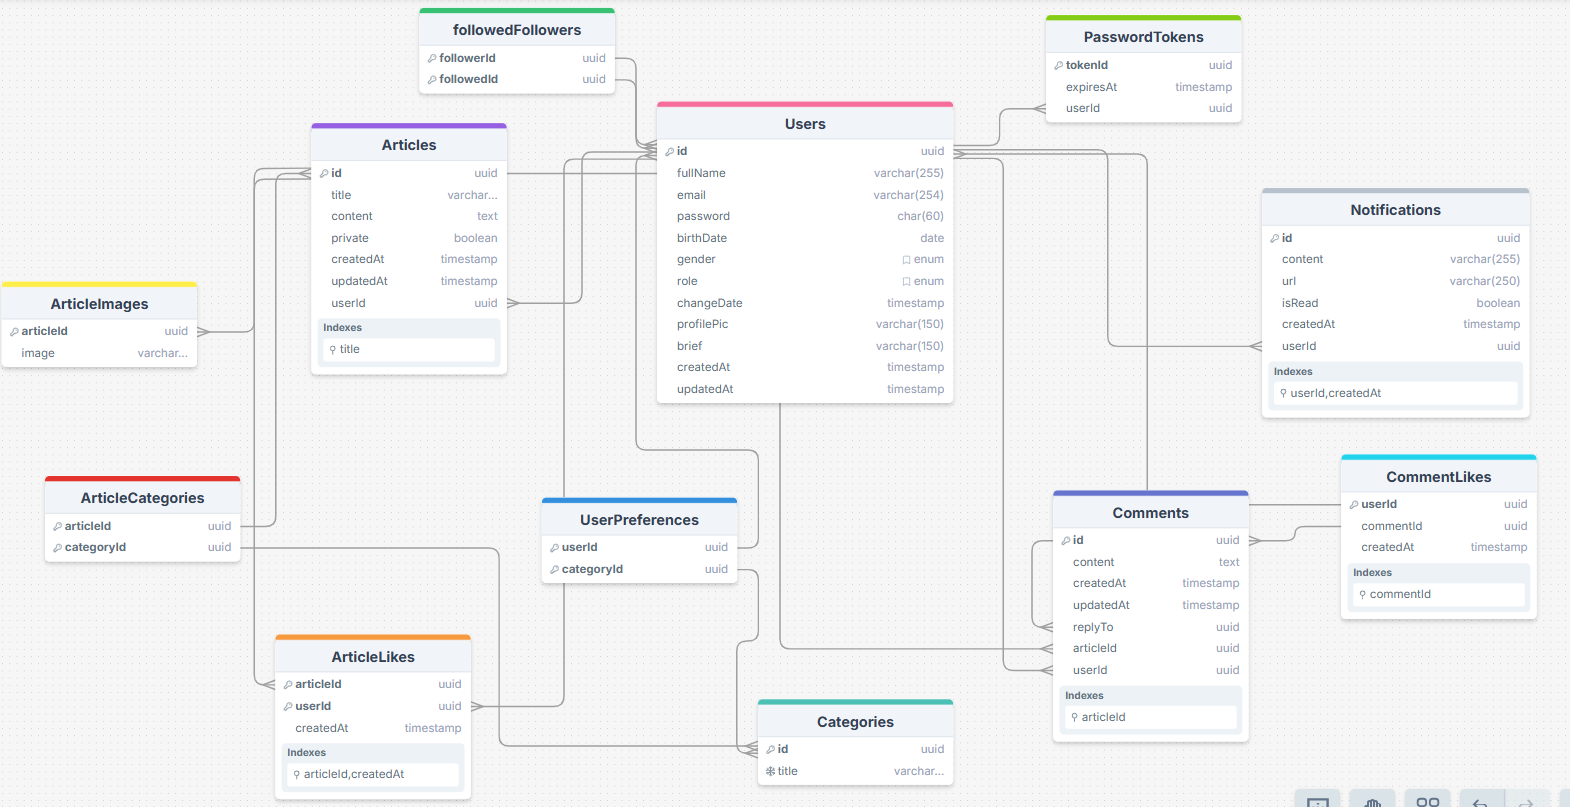
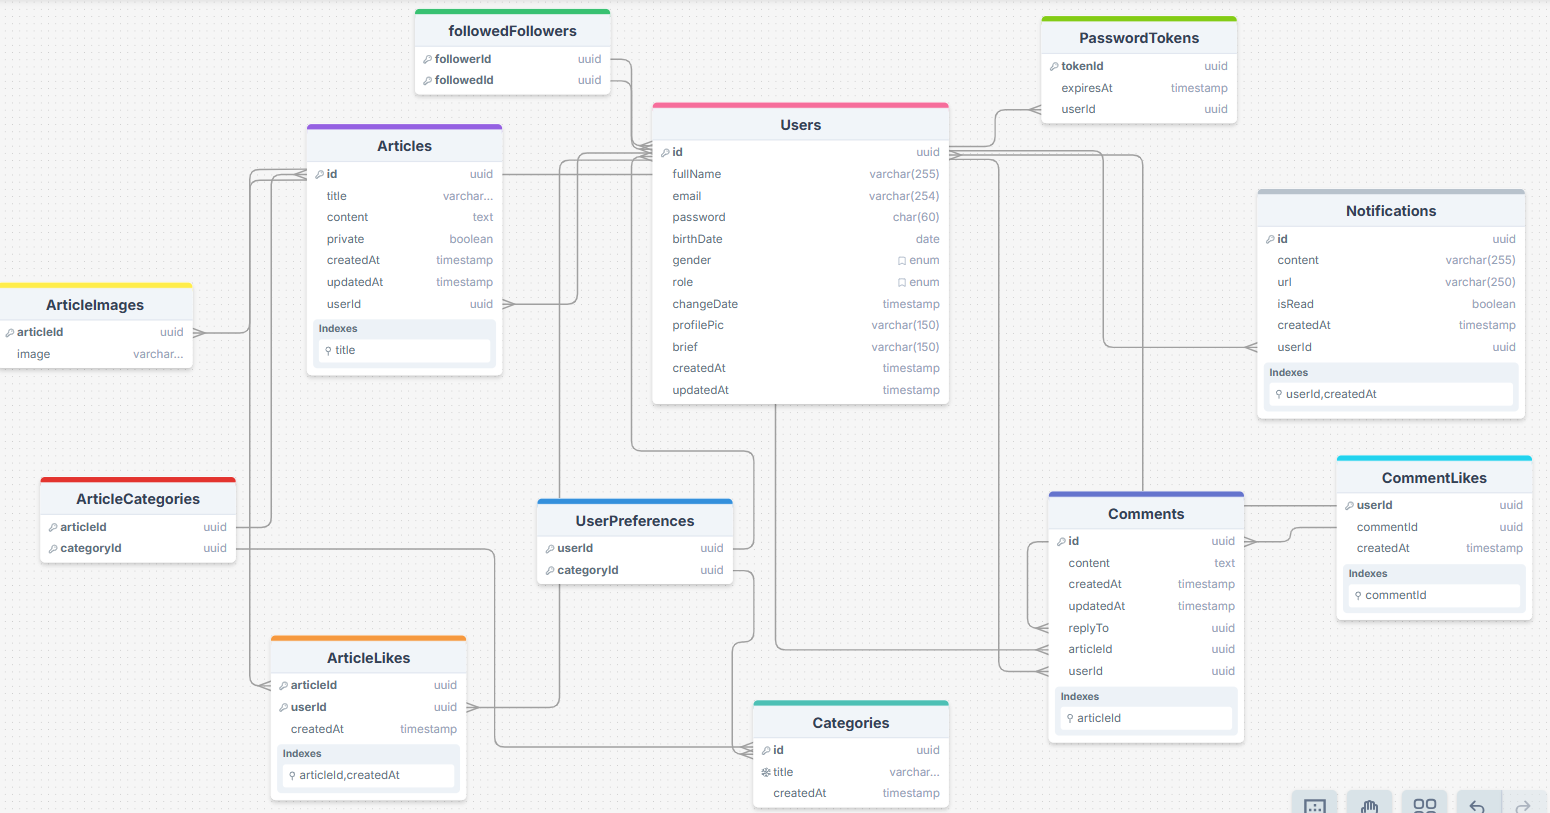
completed categories operations

diff --git a/models/category.js b/models/category.js
@@ -1,5 +1,7 @@
 const { sequelize } = require("../config/sequelize");
-const { Model, DataTypes } = require("sequelize");
+const { Model, DataTypes, where } = require("sequelize");
+const OperationError = require("../helper/operationError");
+const { MIN_RESULTS, MAX_RESULTS } = require("../config/settings");
 
 class Category extends Model {
     static async addCategories(categoriesTitles) {
@@ -11,6 +13,67 @@ class Category extends Model {
             });
 
             const categories = await this.bulkCreate(titles);
+
+            return categories;
+        } catch (err) {
+            throw err;
+        }
+    }
+
+    static async deleteCategory(categoryId) {
+        try {
+            const affectedRows = await this.destroy({
+                where: {
+                    id: categoryId,
+                },
+            });
+
+            if (affectedRows === 0)
+                throw new OperationError(
+                    "Category isn't exist or it's already deleted.",
+                    400
+                );
+
+            return affectedRows;
+        } catch (err) {
+            throw err;
+        }
+    }
+
+    static async updateCategoryTitle(categoryId, newTitle) {
+        try {
+            const updatedObject = await this.update(
+                {
+                    title: newTitle,
+                },
+                {
+                    where: {
+                        id: categoryId,
+                    },
+                    returning: true,
+                }
+            );
+
+            return updatedObject[1][0];
+        } catch (err) {
+            throw err;
+        }
+    }
+
+    static async getCategories(offset = 0, limit = MIN_RESULTS) {
+        try {
+            offset = offset < 0 ? 0 : offset;
+            limit =
+                limit < 0
+                    ? MIN_RESULTS
+                    : limit > MAX_RESULTS
+                    ? MAX_RESULTS
+                    : limit;
+
+            const categories = await this.findAll({
+                offset,
+                limit,
+            });
 
             return categories;
         } catch (err) {
@@ -37,7 +100,8 @@ Category.init(
     },
     {
         sequelize,
-        timestamps: false, // No need to updatedAt and createdAt
+        timestamps: true, // No need to updatedAt
+        updatedAt: false,
     }
 );
 

diff --git a/models/user.js b/models/user.js
@@ -1,15 +1,10 @@
 const { sequelize } = require("../config/sequelize");
-const {
-    Model,
-    DataTypes,
-    literal,
-    Op,
-} = require("sequelize");
+const { Model, DataTypes, literal, Op } = require("sequelize");
 const OperationError = require("../helper/operationError");
 const bcrypt = require("bcryptjs");
 const validator = require("validator");
 const validatePassword = require("../helper/validatePassword");
-const { MIN_RESULTS } = require("../config/settings");
+const { MIN_RESULTS, MAX_RESULTS } = require("../config/settings");
 
 // Models to add relations
 const UserPreference = require("./userPreference");
@@ -226,6 +221,13 @@ class User extends Model {
             //         "Invalid Offset or limit: these two must be positive number",
             //         400
             //     );
+            offset = offset < 0 ? 0 : offset;
+            limit =
+                limit < 0
+                    ? MIN_RESULTS
+                    : limit > MAX_RESULTS
+                    ? MAX_RESULTS
+                    : limit;
 
             /// Exclude the user if provided
             exclude = exclude !== null ? { id: { [Op.ne]: exclude } } : {};
@@ -237,8 +239,8 @@ class User extends Model {
                     },
                     ...exclude,
                 },
-                limit: limit > 0 ? limit : MIN_RESULTS,
-                offset: offset > 0 ? offset : 0,
+                limit,
+                offset,
             });
 
             return results;

diff --git a/routes/categoryRoutes.js b/routes/categoryRoutes.js
@@ -1,9 +1,37 @@
-const {Router } = require('express');
-const adminAddCategories = require('../controllers/category/adminAddCategories');
+const { Router } = require("express");
+const adminAddCategories = require("../controllers/category/adminAddCategories");
+const adminDeleteCategory = require("../controllers/category/adminDeleteCategory");
+const isAuthenticated = require("../middlewares/isAuthenticated");
+const isAdmin = require("../middlewares/isAdmin");
+const adminUpdateCategory = require("../controllers/category/adminUpdateCategory");
+const getCategories = require("../controllers/category/getCategories");
 
 const categoryRoutes = Router();
 
 // Admin can add categories
-categoryRoutes.post('/admin/categories', adminAddCategories);
+categoryRoutes.post(
+    "/admin/categories",
+    isAuthenticated,
+    isAdmin,
+    adminAddCategories
+);
 
+// Admin can delete categories
+categoryRoutes.delete(
+    "/admin/categories/:categoryId",
+    isAuthenticated,
+    isAdmin,
+    adminDeleteCategory
+);
+
+// Admin can edit category title
+categoryRoutes.patch(
+    "/admin/categories/:categoryId",
+    isAuthenticated,
+    isAdmin,
+    adminUpdateCategory
+);
+
+// Anyone can see the categories
+categoryRoutes.get('/categories', getCategories);
 module.exports = categoryRoutes;

diff --git a/controllers/category/adminAddCategories.js b/controllers/category/adminAddCategories.js
@@ -2,6 +2,18 @@ const { Request, Response } = require("express");
 const OperationError = require("../../helper/operationError");
 const Category = require("../../models/category");
 
+class ErrorEnum {
+    static CATEGORIES_NOF_PROVIDED = new OperationError(
+        "Please provide the categories you want to add.",
+        400
+    );
+
+    static INVALID_DATA_STRUCTURE = new OperationError(
+        "Please provide the categories titles in an array",
+        400
+    );
+}
+
 /**
  *
  * @param {Request} req
@@ -9,15 +21,12 @@ const Category = require("../../models/category");
  */
 async function adminAddCategories(req, res, next) {
     try {
-        const { titles = null } = req?.body || {};
+        const { titles = [] } = req?.body || {};
 
-        if (titles === null)
-            return next(
-                new OperationError(
-                    "Please provide the categories you want to add.",
-                    400
-                )
-            );
+        if (titles.length === 0) return next(ErrorEnum.CATEGORIES_NOF_PROVIDED);
+
+        if (!Array.isArray(titles))
+            return next(ErrorEnum.INVALID_DATA_STRUCTURE);
 
         const categories = await Category.addCategories(titles);
 

diff --git a/controllers/category/adminUpdateCategory.js b/controllers/category/adminUpdateCategory.js
@@ -1,0 +1,38 @@
+const { Request, Response } = require("express");
+const Category = require("../../models/category");
+const OperationError = require("../../helper/operationError");
+
+/**
+ *
+ * @param {Request} req
+ * @param {Response} res
+ */
+async function adminUpdateCategory(req, res, next) {
+    try {
+        const { categoryId } = req?.params;
+
+        const { categoryTitle = null } = req?.body || {};
+
+        if (categoryTitle === null)
+            return next(
+                new OperationError(
+                    "Please prodive a new title for the category",
+                    400
+                )
+            );
+
+        const newDoc = await Category.updateCategoryTitle(
+            categoryId,
+            categoryTitle
+        );
+
+        return res.status(200).json({
+            status: "success",
+            data: newDoc,
+        });
+    } catch (err) {
+        next(err);
+    }
+}
+
+module.exports = adminUpdateCategory;

diff --git a/controllers/category/getCategories.js b/controllers/category/getCategories.js
@@ -1,0 +1,25 @@
+const { Request, Response } = require("express");
+const { MIN_RESULTS } = require("../../config/settings");
+const Category = require("../../models/category");
+
+/**
+ *
+ * @param {Request} req
+ * @param {Response} res
+ */
+async function getCategories(req, res, next) {
+    try {
+        const { offset = 0, limit = MIN_RESULTS } = req?.query;
+
+        const categories = await Category.getCategories(offset, limit);
+
+        return res.status(200).json({
+            status: "success",
+            data: categories,
+        });
+    } catch (err) {
+        next(err);
+    }
+}
+
+module.exports = getCategories;

diff --git a/controllers/category/adminDeleteCategory.js b/controllers/category/adminDeleteCategory.js
@@ -1,0 +1,24 @@
+const { Request, Response } = require("express");
+const Category = require("../../models/category");
+
+/**
+ *
+ * @param {Request} req
+ * @param {Response} res
+ */
+async function adminDeleteCategory(req, res, next) {
+    try {
+        const {categoryId} = req?.params;
+
+        await Category.deleteCategory(categoryId);
+
+        return res.status(200).json({
+            status: "success",
+            message: "Category deleted successfully"
+        });
+    } catch(err) {
+        next(err);
+    }
+}
+
+module.exports = adminDeleteCategory;

diff --git a/controllers/user/adminGetUsers.js b/controllers/user/adminGetUsers.js
@@ -1,6 +1,7 @@
 const { Request, Response } = require("express");
 const User = require("../../models/user");
 const OperationError = require("../../helper/operationError");
+const { MIN_RESULTS } = require("../../config/settings");
 
 class ErrorEnum {
     static FIELD_NOT_EXISTS = new OperationError(
@@ -21,7 +22,7 @@ async function adminGetUsers(req, res, next) {
     try {
         const {
             offset = 0,
-            limit = 10,
+            limit = MIN_RESULTS,
             sortBy = "fullName",
             sortDir = "ASC",
         } = req?.query;

diff --git a/config/sequelize.js b/config/sequelize.js
@@ -31,8 +31,8 @@ async function connectDB() {
         require("../models/article");
         
         // Sync the current models with tables in database (if something not found in model add it to database not the opposite)
-        // await sequelize.sync({ alter: true });
-        await sequelize.sync({ force: true });
+        await sequelize.sync({ alter: true });
+        // await sequelize.sync({ force: true });
         console.log("connected to database successfully");
     } catch (err) {
         console.log(err);

diff --git a/helper/validatePassword.js b/helper/validatePassword.js
@@ -1,7 +1,6 @@
 const OperationError = require("./operationError");
 
 function validatePassword(password) {
-    console.log("\n\n###########", password, "\n\n###########");
     if (password.length < 8) {
         throw new OperationError(
             "Password must be at least 8 characters long.",

diff --git a/README.md b/README.md
@@ -1,3 +1,3 @@
-ERD
+[ERD](https://drawsql.app/teams/tornado-2/diagrams/tornado-articles/embed)
 
 ![ERD](./erd.png)
